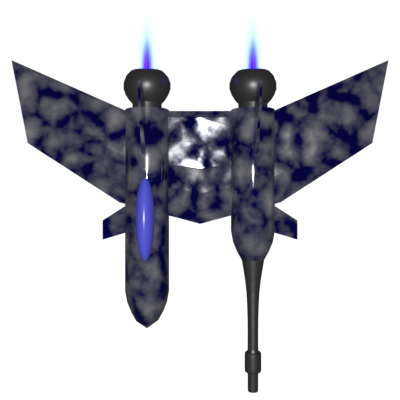
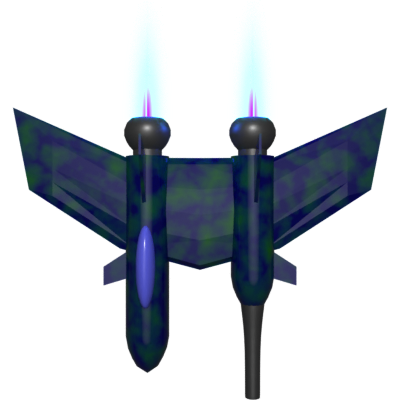
WIP: Changed the title image. created images for ship3, created and implemented images for the first boss. Started to write the code for the boss movement.

diff --git a/enemy.py b/enemy.py
@@ -3,7 +3,7 @@ from projectile import EnemyProjectile
 from healthbar import Healthbar
 
 import pygame as pg
-from random import randint
+from random import randint, choice
 
 
 class Enemy(pg.sprite.Sprite):
@@ -19,7 +19,7 @@ class Enemy(pg.sprite.Sprite):
         self.enemy_mask = pg.mask.from_surface(self.image)
         self.pos = pg.math.Vector2(self.rect.topleft)
         self.direction = pg.math.Vector2(0, 1)
-        self.speed = 100
+        self.speed.x = 100
         self.killed = False
 
         self.healthbar = Healthbar(self.game, self.max_health, self.health, self.image.get_width(), self.pos)
@@ -41,7 +41,7 @@ class Enemy(pg.sprite.Sprite):
         self.image = self.animation.get_img()
 
         self.direction.y = 1
-        self.pos.y += self.direction.y * self.speed * dt
+        self.pos.y += self.direction.y * self.speed.x * dt
         self.rect.x = self.pos.x
         self.rect.y = self.pos.y
 
@@ -57,7 +57,7 @@ class EnemyShip1(Enemy):
         super().__init__(game, "enemy1", enemy_number, enemy_group, pos)
         self.shooting_timer = 1
         self.timer = self.shooting_timer
-        self.laser_damage = 10
+        self.laser_damage = 20
     
     def update(self, dt):
         super().update(dt)
@@ -76,7 +76,7 @@ class EnemyShip2(Enemy):
         super().__init__(game, "enemy2", enemy_number, enemy_group, pos)
         self.shooting_timer = 0.8
         self.timer = self.shooting_timer
-        self.laser_damage = 5
+        self.laser_damage = 10
     
     def update(self, dt):
         super().update(dt)
@@ -113,3 +113,61 @@ class EnemyShip3(Enemy):
 class Boss1(Enemy):
     def __init__(self, game,  enemy_number, enemy_group, pos):
         super().__init__(game, "boss1", enemy_number, enemy_group, pos)
+        self.state = "idle"
+        self.state_hold_time = randint(1, 15)
+        self.state_timer = 0
+
+    def create_mask(self):
+        self.mask = pg.mask.from_surface(self.ship_image)    
+
+    def set_x_direction(self):
+        if self.state == "left":
+            self.direction.x = -1
+        elif self.state == "right":
+            self.direction.x = 1
+        else:
+            self.direction.x = 0
+
+    def handle_image_and_mask(self):
+        self.animation = self.game.assets["boss1/" + self.state].copy()
+        self.rect = self.ship_image.get_rect(center = self.pos)
+        self.create_mask()
+
+    def update(self, dt):
+        self.handle_animation(dt)
+        self.animation.update(dt)
+        self.image = self.animation.get_img()
+        if self.pos.y < 20:
+            self.direction.y = 1
+            self.direction.x = 0
+            
+        else:
+            self.direction.y = 0
+            if self.state_timer >= self.state_hold_time:
+                old_state = self.state
+                self.state = choice(["left", "right", "idle"])
+                if old_state != self.state:
+                    self.handle_image_and_mask()
+                    self.set_x_direction()
+                
+
+        self.pos.y += self.direction.y * self.speed.x * dt
+        self.pos.x += self.direction.x * self.speed.x * dt
+
+        if self.pos.x < 0:
+            self.pos.x = 0
+            self.direction.x *= -1
+            self.state = "right"
+            self.handle_image_and_mask()
+
+        if self.pos.x + self.image.get_width() > stgs.GAME_WINDOW_RESOLUTION[0]:
+            self.pos.x = stgs.GAME_WINDOW_RESOLUTION[0] - self.image.get_width()
+            self.direction.x *= -1
+            self.state = "left"
+            self.handle_image_and_mask()
+
+        self.rect.x = self.pos.x
+        self.rect.y = self.pos.y
+
+        self.healthbar.update(self.health, self.pos)
+

diff --git a/main.py b/main.py
@@ -38,10 +38,11 @@ class Game:
             "drone/idle": Animation(load_images("drone/idle", scale_factor=0.3), animation_duration=0.5, loop=True),
             "drone/curve": Animation(load_images("drone/curve", scale_factor=0.3), animation_duration=0.5, loop=True),
             "enemy1/idle": Animation(load_images("enemies/ship1/idle", scale_factor=0.25), animation_duration=0.5, loop=True),
-            "enemy1/curve": Animation(load_images("enemies/ship1/curve", scale_factor=0.25), animation_duration=0.5),
             "enemy2/idle": Animation(load_images("enemies/ship2/idle", scale_factor=0.25), animation_duration=0.5, loop=True),
-            "enemy2/curve": Animation(load_images("enemies/ship2/curve", scale_factor=0.25), animation_duration=0.5),
             "enemy3/idle": Animation(load_images("enemies/ship3/idle", scale_factor=0.25), animation_duration=0.5, loop=True),
+            "boss1/idle": Animation(load_images("enemies/boss1/idle", scale_factor=0.75), animation_duration=0.5, loop=True),
+            "boss1/left": Animation(load_images("enemies/boss1/left(right)", scale_factor=0.25), animation_duration=0.5, loop=True),
+            "boss1/right": Animation(load_images("enemies/boss1/right(left)", scale_factor=0.25), animation_duration=0.5, loop=True),
             "laser": load_images("ammo/lasers", scale_factor=0.5),
             "rocket1": Animation(load_images("ammo/rockets/rocket1", scale_factor=0.25), animation_duration=2, loop=True),
             "upgrade/background": load_images("upgrades/backgrounds", scale_factor=0.5),
@@ -50,7 +51,6 @@ class Game:
             "projectile_hit": Animation(load_images("fx/small explosion", scale_factor=0.5), animation_duration=0.5, loop=False),
         }
         
-        # Create player and add to groups
         self.player_pos = (stgs.GAME_WINDOW_RESOLUTION[0] // 2, stgs.GAME_WINDOW_RESOLUTION[1] // 5 * 4)
         self.spaceship = Spaceship(self, self.player_group, self.player_projectile_group, self.player_pos)
         self.move_x, self.move_y = [0, 0], [0, 0]
@@ -95,8 +95,10 @@ class Game:
                     self.spaceship.rocket_damage += 5
                 elif upgrade.upgrade_number == 4:
                     self.spaceship.laser_fire_rate += 0.05
+                    self.spaceship.rocket_fire_rate += 0.1
                 elif upgrade.upgrade_number == 5:
-                    self.spaceship.rocket_fire_rate -= 0.05
+                    self.spaceship.laser_fire_rate -= 0.05
+                    self.spaceship.rocket_fire_rate -= 0.1
                 elif upgrade.upgrade_number == 6:
                     self.spaceship.health = 100
                 elif upgrade.upgrade_number == 7:
@@ -188,8 +190,6 @@ class Game:
     def draw_score(self):
         score_to_blit = self.score_font.render(str(self.score), True, (247, 247, 247))
         self.main_window.blit(score_to_blit, (8, 8))
-        health_to_blit = self.score_font.render(str(self.spaceship.health), True, (247, 0, 0))
-        self.main_window.blit(health_to_blit, (8, 200))
 
     def move_background(self, dt):
         self.background_y += dt * 10

diff --git a/spaceship.py b/spaceship.py
@@ -24,6 +24,7 @@ class Spaceship(pg.sprite.Sprite):
         self.pos = pg.math.Vector2(self.rect.topleft)
         self.direction = pg.math.Vector2()
         self.flip_image = False
+        self.rocket_flip_flop = True
 
         self.shoot_timer = 0
         self.speed = 200
@@ -83,8 +84,8 @@ class Spaceship(pg.sprite.Sprite):
             if self.pos.x + self.ship_image.get_width() > stgs.GAME_WINDOW_RESOLUTION[0]:
                 self.pos.x = stgs.GAME_WINDOW_RESOLUTION[0] - self.ship_image.get_width()
         else:
-            if self.pos.x + (self.ship_image.get_width() * 1.5) + (self.game.drones[0].image.get_width() // 2) > stgs.GAME_WINDOW_RESOLUTION[0]:
-                self.pos.x = stgs.GAME_WINDOW_RESOLUTION[0] - (self.ship_image.get_width() * 1.5) - (self.game.drones[0].image.get_width() // 2)
+            if self.pos.x + (self.ship_image.get_width() * 1.5) + (self.game.drones[1].image.get_width() // 2) > stgs.GAME_WINDOW_RESOLUTION[0]:
+                self.pos.x = stgs.GAME_WINDOW_RESOLUTION[0] - (self.ship_image.get_width() * 1.5) - (self.game.drones[1].image.get_width() // 2)
         self.rect.x = self.pos.x
 
         self.pos.y += (move_y[1] - move_y[0]) * self.speed *dt
@@ -104,13 +105,16 @@ class Spaceship(pg.sprite.Sprite):
                 PlayerProjectile(self.game, "laser", self.current_weapon_damage, (self.pos.x + 74, self.pos.y + 42))
                 self.shoot_timer = 0
         elif self.weapon == "rocket_launcher":
-            if self.shoot_timer > max(0.1, self.laser_fire_rate):
-                PlayerProjectile(self.game, "rocket1", self.current_weapon_damage, (self.pos.x + 25, self.pos.y + 42))
-                PlayerProjectile(self.game, "rocket1", self.current_weapon_damage, (self.pos.x + 74, self.pos.y + 42))
+            if self.shoot_timer > max(0.1, self.rocket_fire_rate):
+                if self.rocket_flip_flop:
+                    PlayerProjectile(self.game, "rocket1", self.current_weapon_damage, (self.pos.x + 25, self.pos.y + 42))
+                    self.rocket_flip_flop = False
+                else:
+                    PlayerProjectile(self.game, "rocket1", self.current_weapon_damage, (self.pos.x + 74, self.pos.y + 42))
+                    self.rocket_flip_flop = True
                 self.shoot_timer = 0
         elif self.weapon == "sprayer":
-            if self.shoot_timer > max(0.1, self.laser_fire_rate):
-                
+            if self.shoot_timer > max(0.1, self.laser_fire_rate): 
                 PlayerProjectile(self.game, "laser", self.current_weapon_damage, (self.pos.x + self.image.get_width() // 2, self.pos.y + 20), 90)
                 PlayerProjectile(self.game, "laser", self.current_weapon_damage, (self.pos.x + self.image.get_width() // 2, self.pos.y + 20), 120)
                 PlayerProjectile(self.game, "laser", self.current_weapon_damage, (self.pos.x + self.image.get_width() // 2, self.pos.y + 20), 60)

diff --git a/drone.py b/drone.py
@@ -36,10 +36,15 @@ class Drone(pg.sprite.Sprite):
         self.health -= damage
         self.healthbar.update(self.health, self.pos)
         if self.health <= 0:
-            self.kill()
+            if self.side < 0:              
+                self.kill()
+                self.game.drones[0] = 0      
+            elif self.side > 0:
+                self.kill()
+                self.game.drones[1] = 0
     
     def create_mask(self):
-        self.spaceship_mask = pg.mask.from_surface(self.image)
+        self.drone_mask = pg.mask.from_surface(self.image)
 
     def handle_animation(self, dt, move_x):
         old_state = self.state
